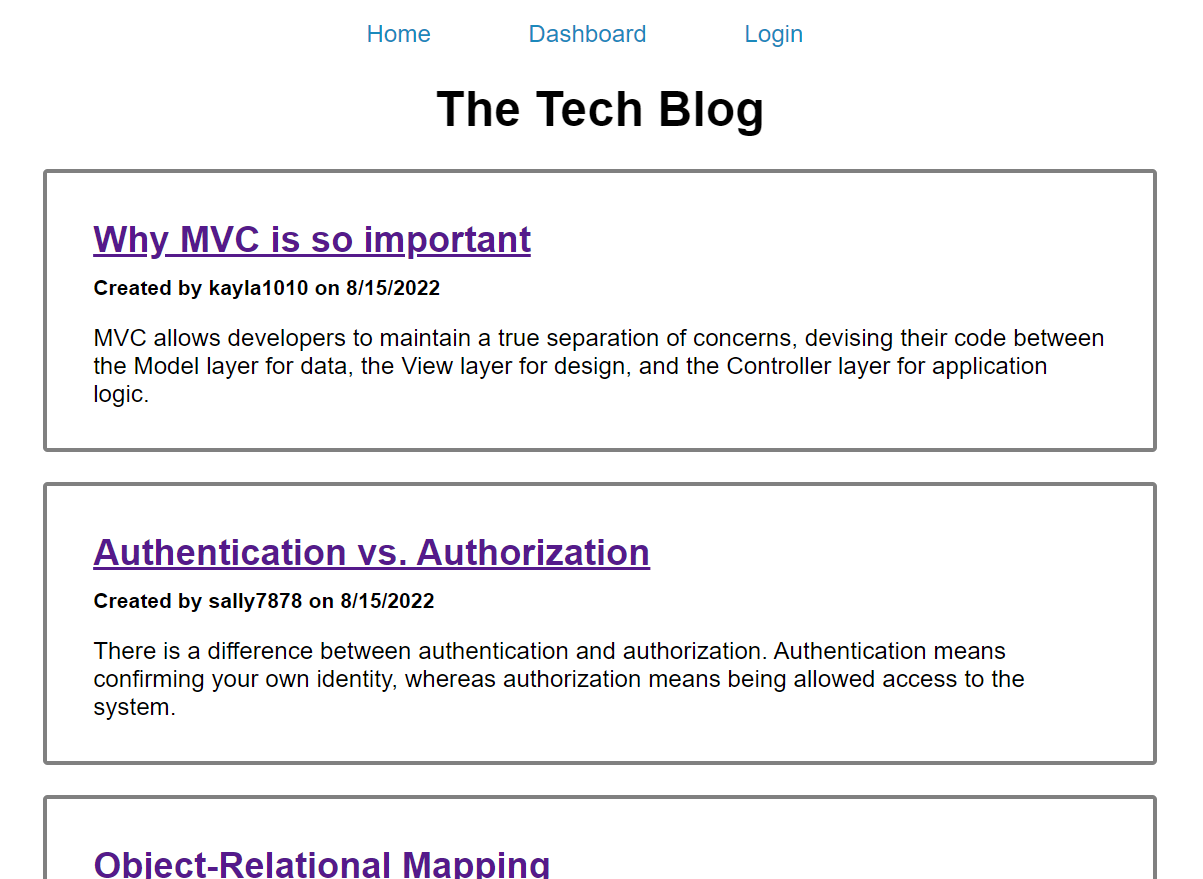
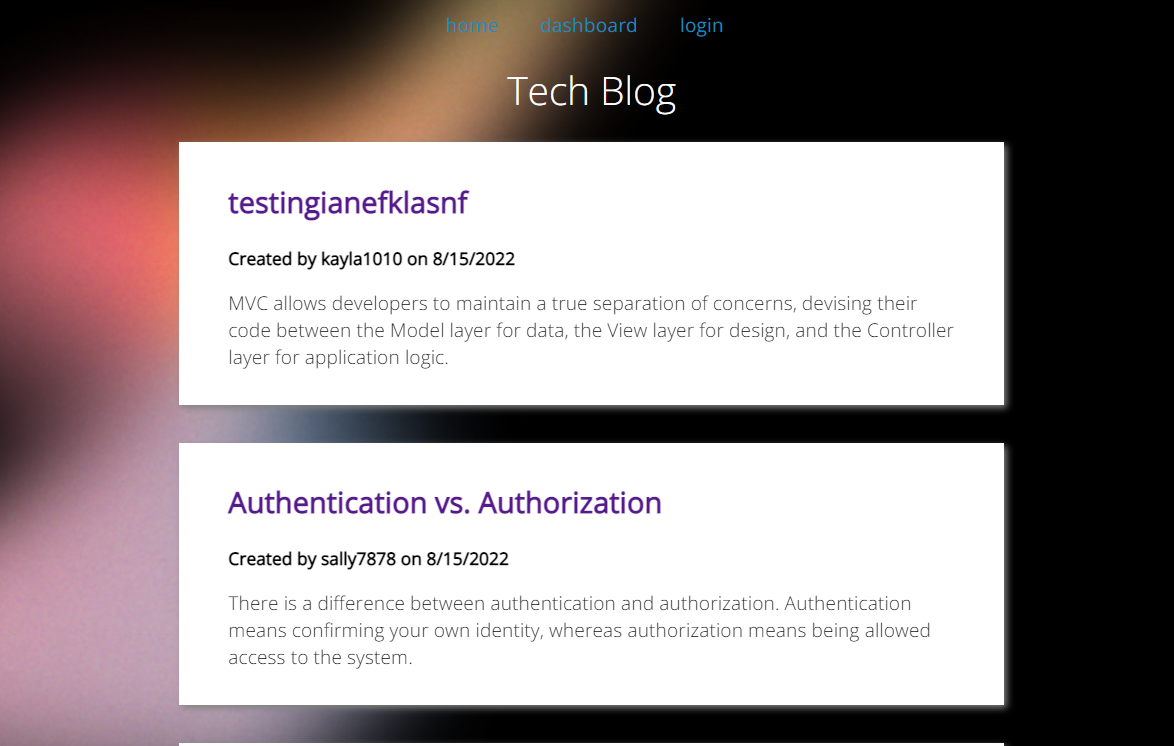
Updated readme

diff --git a/public/css/style.css b/public/css/style.css
@@ -1,5 +1,6 @@
 body {
-  background-image: url('bg.png');
+  /* Must be in public folder, not assets when there are both public and server sides */
+  background-image: url('../images/bg.png');
   background-size: cover;
   font-family: 'Open Sans', sans-serif;
   font-weight: 200;
@@ -13,8 +14,11 @@ main {
 header {
   text-align: center;
   font-family: 'Open Sans', sans-serif;
-  font-weight: 400;
   color: white;
+}
+
+header h1 {
+  font-weight: 200;
 }
 
 .my-posts {
@@ -27,6 +31,7 @@ text-decoration: none;
 
 nav li {
   display: inline;
+  font-weight: 400;
 }
 
 nav li a {

diff --git a/README.md b/README.md
@@ -84,7 +84,7 @@ The JSON documents include:
 
 * [Repository](https://github.com/villettec/M14C-Tech_Blog)
 
-## Screenshots
+## Screenshots)
 ![image](./assets/images/readme-screenshot.png)
 
 ## Credit
